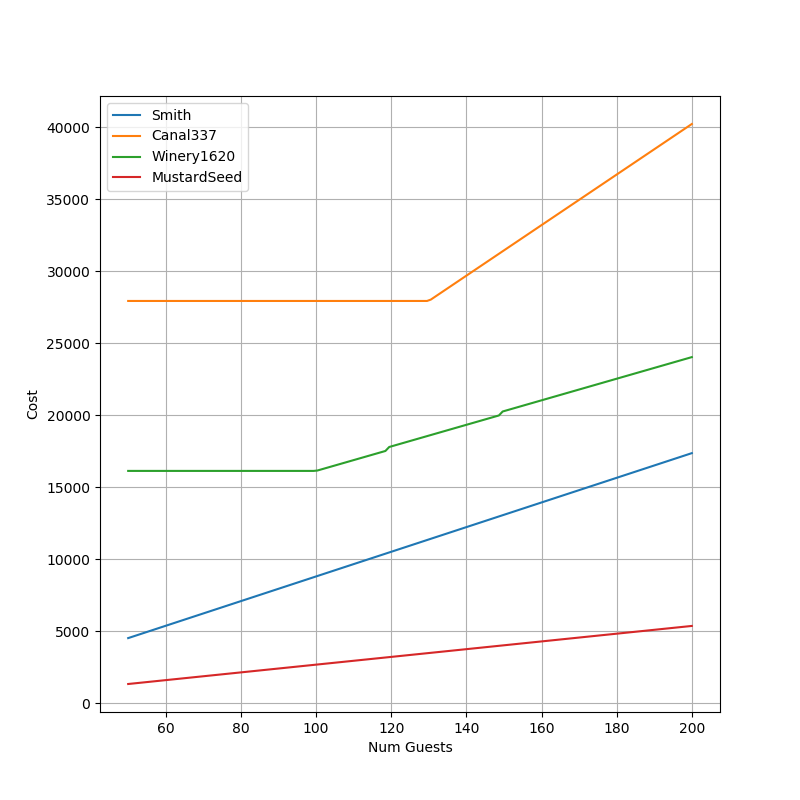
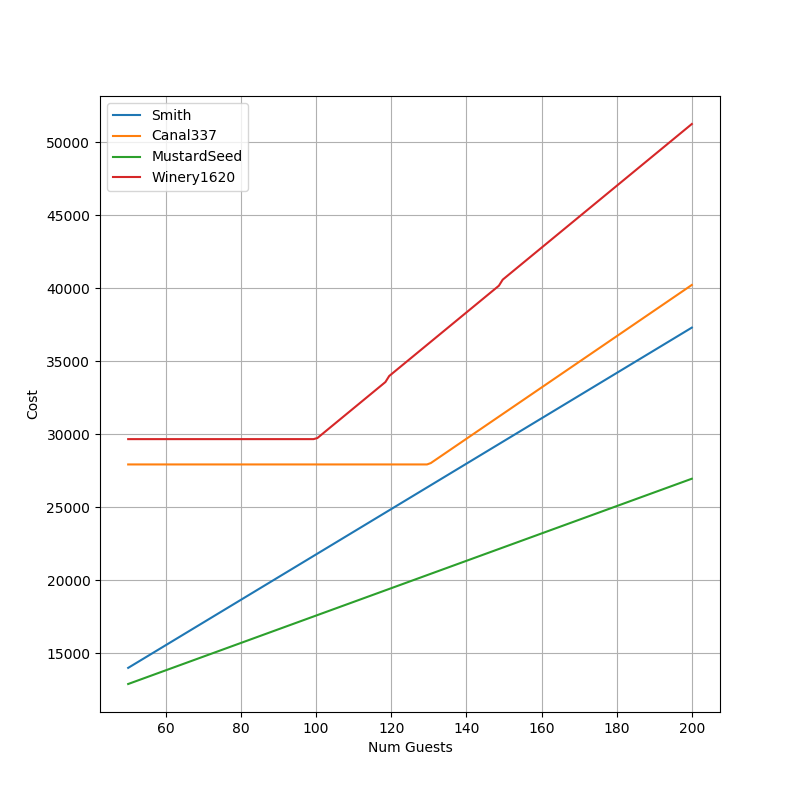
Update prices

diff --git a/wedding/utils/prices.py b/wedding/utils/prices.py
@@ -4,16 +4,20 @@ def mustard_seed(num_guests: int) -> float:
     drink = 26.5  # 21.5 is cheaper option
     drink_service = .2
     drink_tax = .07
-    food = 9107 / 157
+    food = 9107 / 157  # 59
     rental = 7500 * 1.07
-    return drink * (1 + drink_service * drink_tax) * num_guests + food * num_guests + rental
+    decor = 200 + 2 * num_guests  # lounge + chairs
+    return drink * (1 + drink_service + drink_tax) * num_guests + food * num_guests + rental + decor
 
 
 def smith_farm(num_guests: int) -> float:
-    food = 80  # Estimate
+    food = 63 + 12  # Estimate
     food_tax = 1.07
     food_flat_fee = 250
-    return food_flat_fee + food * food_tax * num_guests
+    rental = 5000
+    drinks = 15 * 5
+    helper = 1000
+    return rental + food_flat_fee + food * food_tax * num_guests + drinks * num_guests + helper
 
 
 def canal_337(num_guests: int) -> float:
@@ -39,9 +43,9 @@ def winery_1620(num_guests: int) -> float:
         bar_fee = 1400
 
     # Estimate at $15 / hr / guest
-    drinks = 15 * num_guests * 5
+    drinks = 15 * 5
 
-    return rental_fee + food * food_upcharge + bar_fee + drinks
+    return rental_fee + food * food_upcharge * num_guests + bar_fee + drinks * num_guests
 
 
 prices = {
